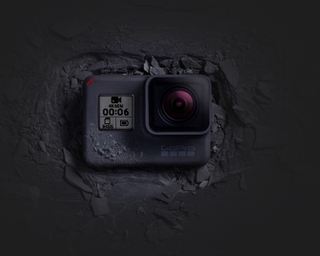
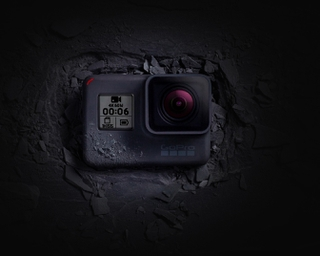
💄 Update dark color

diff --git a/src/scss/tools/_variables.scss b/src/scss/tools/_variables.scss
@@ -11,7 +11,7 @@ $light-white: #f1f1f1;
 $black: #36383E;
 $separator-white: rgba(0, 0, 0, 0.2);
 $separator-black: rgba(255, 255, 255, 0.2);
-$black-background: #1E1E1E;
+$black-background: #080808;
 $grey: rgb(89, 92, 102);
 
 $main-color: #45C0F5;

diff --git a/src/scss/sections/_join-community.scss b/src/scss/sections/_join-community.scss
@@ -3,7 +3,7 @@
 	padding: 120px 0px 120px 0px;
 	width: 100%;
 	overflow: hidden;
-  background-color: #080808;
+  background-color: $black-background;
   display: flex;
   flex-direction: column-reverse;
 

diff --git a/src/scss/components/_loader.scss b/src/scss/components/_loader.scss
@@ -6,7 +6,7 @@
 	left: 0;
 	width: 100%;
 	height: 100%;
-	background-color: #161718;
+	background-color: $black-background;
   z-index: $zindex-7;
   display: flex;
   align-items: center;
